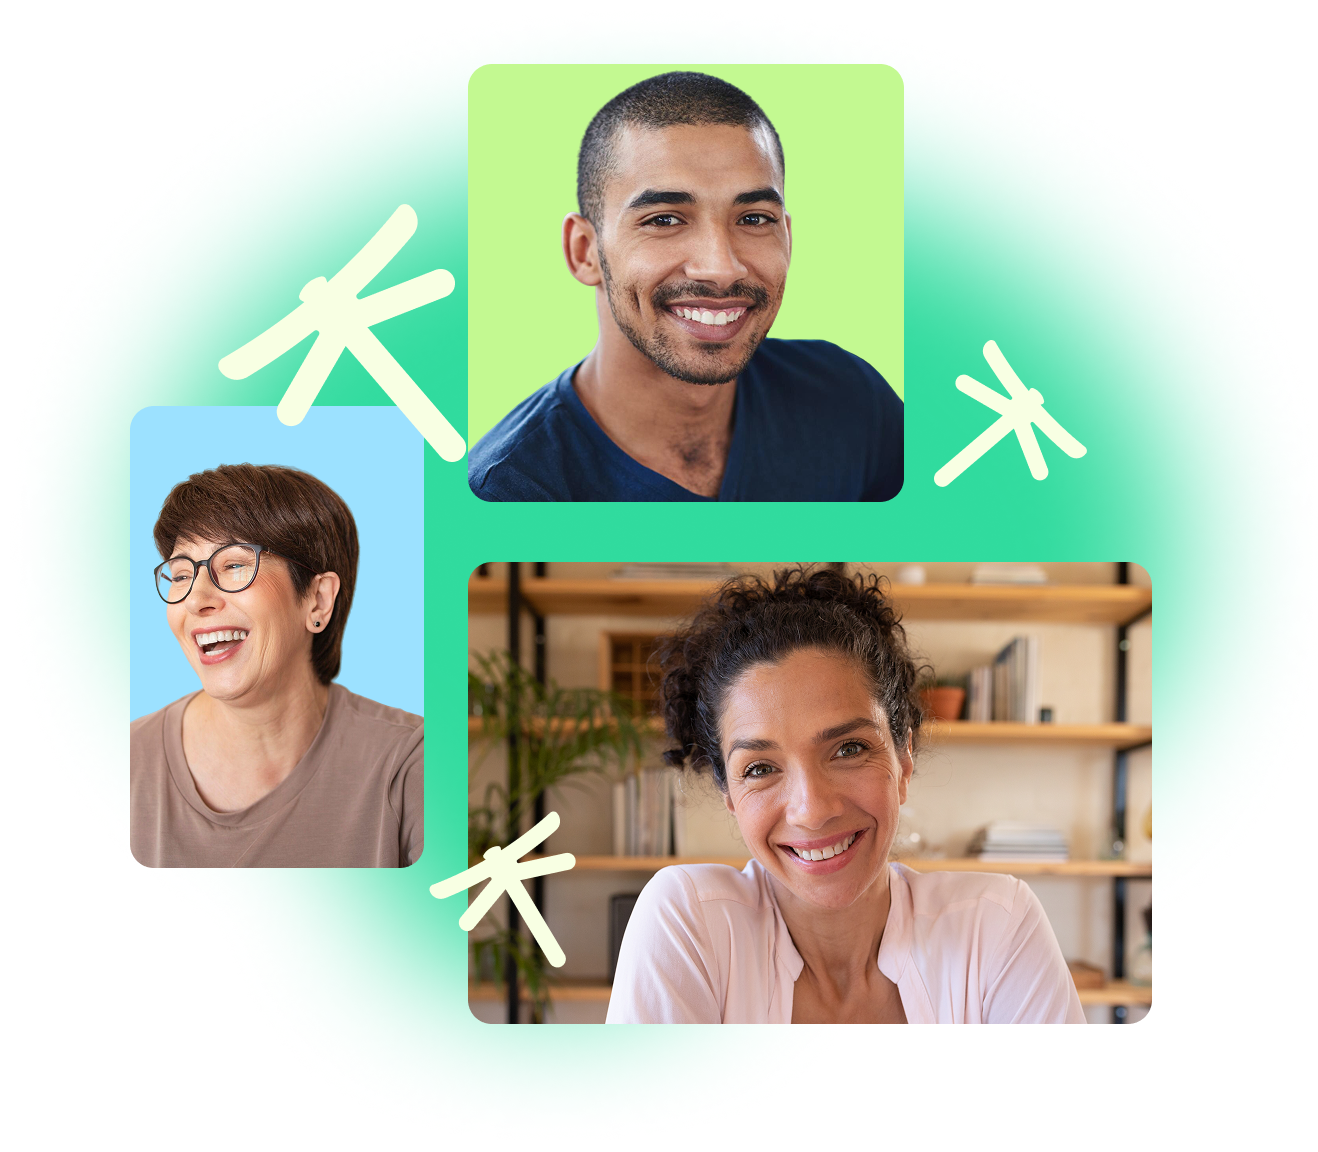
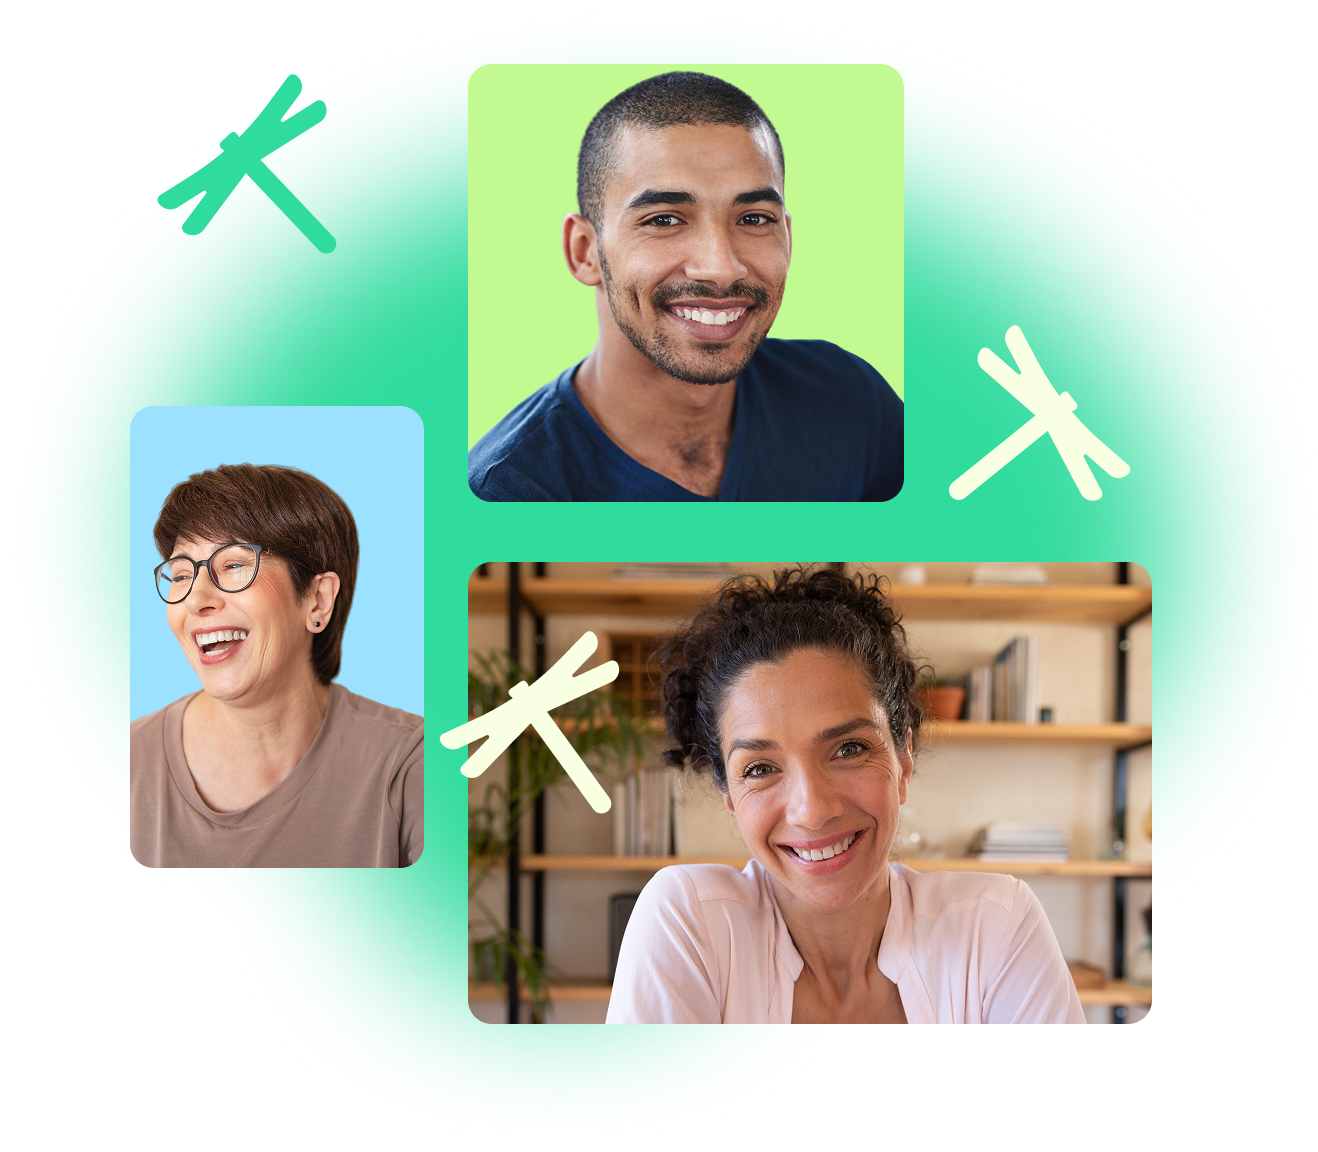
feat: Add new SVG symbol and update images for improved visual consistency

Changed region(s): [[0.1244, 0.0625, 0.3733, 0.4062], [0.3111, 0.5312, 0.4666, 0.8438], [0.7155, 0.2812, 0.871, 0.4375]]

diff --git a/src/components/Spinner.tsx b/src/components/Spinner.tsx
@@ -1,6 +1,22 @@
+// import { ReactComponent as LibelulaIcon } from "../assets/libelula-icon.svg";
+import { ReactComponent as LibelulaSymbol } from "../assets/libelula-symbol.svg";
+
 const Spinner = () => (
 	<div className="flex items-center justify-center min-h-screen">
-		<div className="animate-spin rounded-full h-12 w-12 border-t-4 border-primary-green border-solid"></div>
+		<div className="relative">
+			{/* Spinning border */}
+			{/* <div className="animate-spin rounded-full h-24 w-24 border-4 border-primary-green border-t-secondary-green"></div> */}
+			{/* Static icon in the center */}
+			{/* <div className="absolute inset-0 flex items-center justify-center">
+				<LibelulaSymbol className="w-16 h-16 text-dark-green animate-pulse" />
+			</div> */}
+
+			{/* <div className="animate-spin rounded-full h-24 w-24 border-4 border-primary-green border-t-secondary-green"></div> */}
+			{/* Static icon in the center */}
+			<div className="flex items-center justify-center">
+				<LibelulaSymbol className="w-20 h-20 text-dark-green animate-pulse" />
+			</div>
+		</div>
 	</div>
 );
 

diff --git a/src/components/HeroSection.tsx b/src/components/HeroSection.tsx
@@ -30,17 +30,13 @@ const HeroSection = ({ sectionId }: { sectionId: string }) => {
 
 					{/* Hero Images */}
 					<div className="relative">
-						<div className="grid grid-cols-1 gap-4 h-[500px] lg:h-[600px]">
-							{/* Blurred background elements */}
-							<div className="bg-secondary-green blur-md rounded-xl opacity-60"></div>
-							{/* Main hero image */}
-							<div className="col-span-2 rounded-xl overflow-hidden">
-								<img
-									src={heroSectionImage}
-									alt="Servicios terapéuticos para niños y familias"
-									className="w-full h-full object-cover"
-								/>
-							</div>
+						{/* Main hero image */}
+						<div className="col-span-2 rounded-xl overflow-hidden">
+							<img
+								src={heroSectionImage}
+								alt="Servicios terapéuticos para niños y familias"
+								className="w-full"
+							/>
 						</div>
 					</div>
 				</div>

diff --git a/src/components/KidsServices.tsx b/src/components/KidsServices.tsx
@@ -19,13 +19,8 @@ const KidsServices = ({ sectionId }: { sectionId: string }) => {
 							<img
 								src={kidsTherapyImage}
 								alt="Terapias para niños y adolescentes"
-								className="w-full h-[400px] lg:h-[500px] object-cover"
+								className="w-full"
 							/>
-
-							{/* Floating circular elements */}
-							<div className="absolute top-4 left-4 w-20 h-20 bg-primary-green rounded-full opacity-80 blur-sm"></div>
-							<div className="absolute top-16 right-8 w-16 h-16 bg-secondary-green rounded-full opacity-80 blur-sm"></div>
-							<div className="absolute bottom-8 left-1/3 w-24 h-24 bg-light-green rounded-full opacity-80 blur-sm"></div>
 						</div>
 					</div>
 

diff --git a/src/components/AdultsServices.tsx b/src/components/AdultsServices.tsx
@@ -42,13 +42,13 @@ const AdultsServices = ({ sectionId }: { sectionId: string }) => {
 
 					{/* Adults services image */}
 					<div className="relative">
-						<div className="grid grid-cols- gap-4 h-[400px] lg:h-[500px]">
+						<div className="grid grid-cols- gap-4">
 							{/* Top right - main image */}
 							<div className="rounded-xl overflow-hidden">
 								<img
 									src={adultsServicesImage}
 									alt="Servicios para personas adultas"
-									className="w-full h-full object-cover"
+									className="w-full"
 								/>
 							</div>
 						</div>

diff --git a/src/components/Footer.tsx b/src/components/Footer.tsx
@@ -20,7 +20,11 @@ const Footer = () => {
 					<div className="flex flex-col md:flex-row gap-8 md:gap-4">
 						{/* Logo */}
 						<div className="flex justify-center lg:justify-start lg:justify-self-start">
-							<img src={logo} alt="Clínica Libélula" className="h-16 w-auto" />
+							<img
+								src={logo}
+								alt="Clínica Libélula"
+								className="h-16 md:h-24 w-auto"
+							/>
 						</div>
 
 						{/* Navigation Links */}
